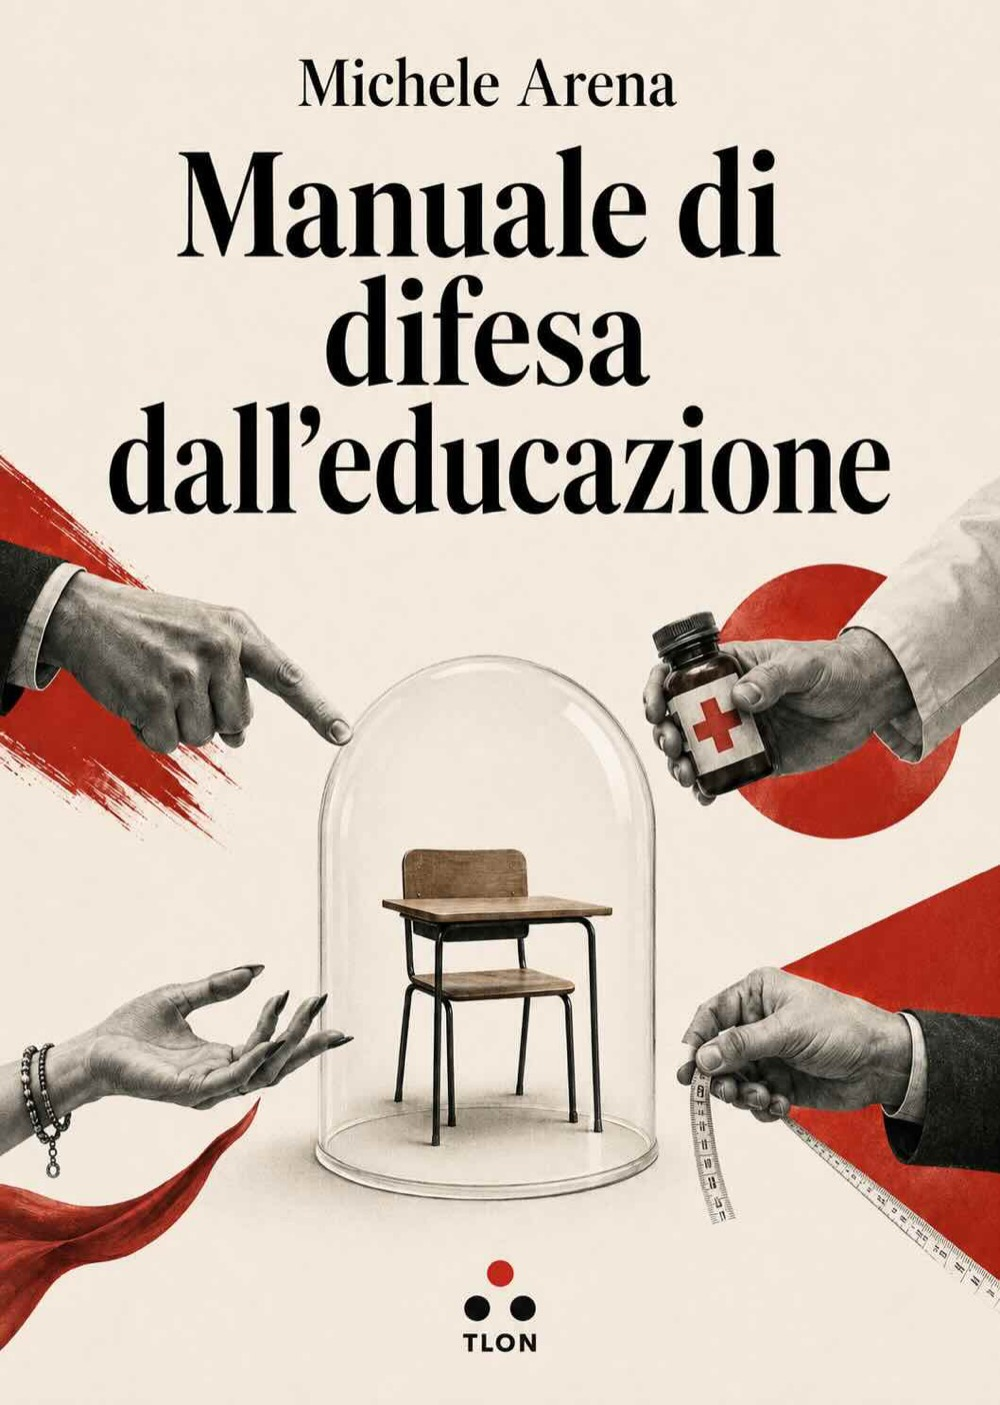
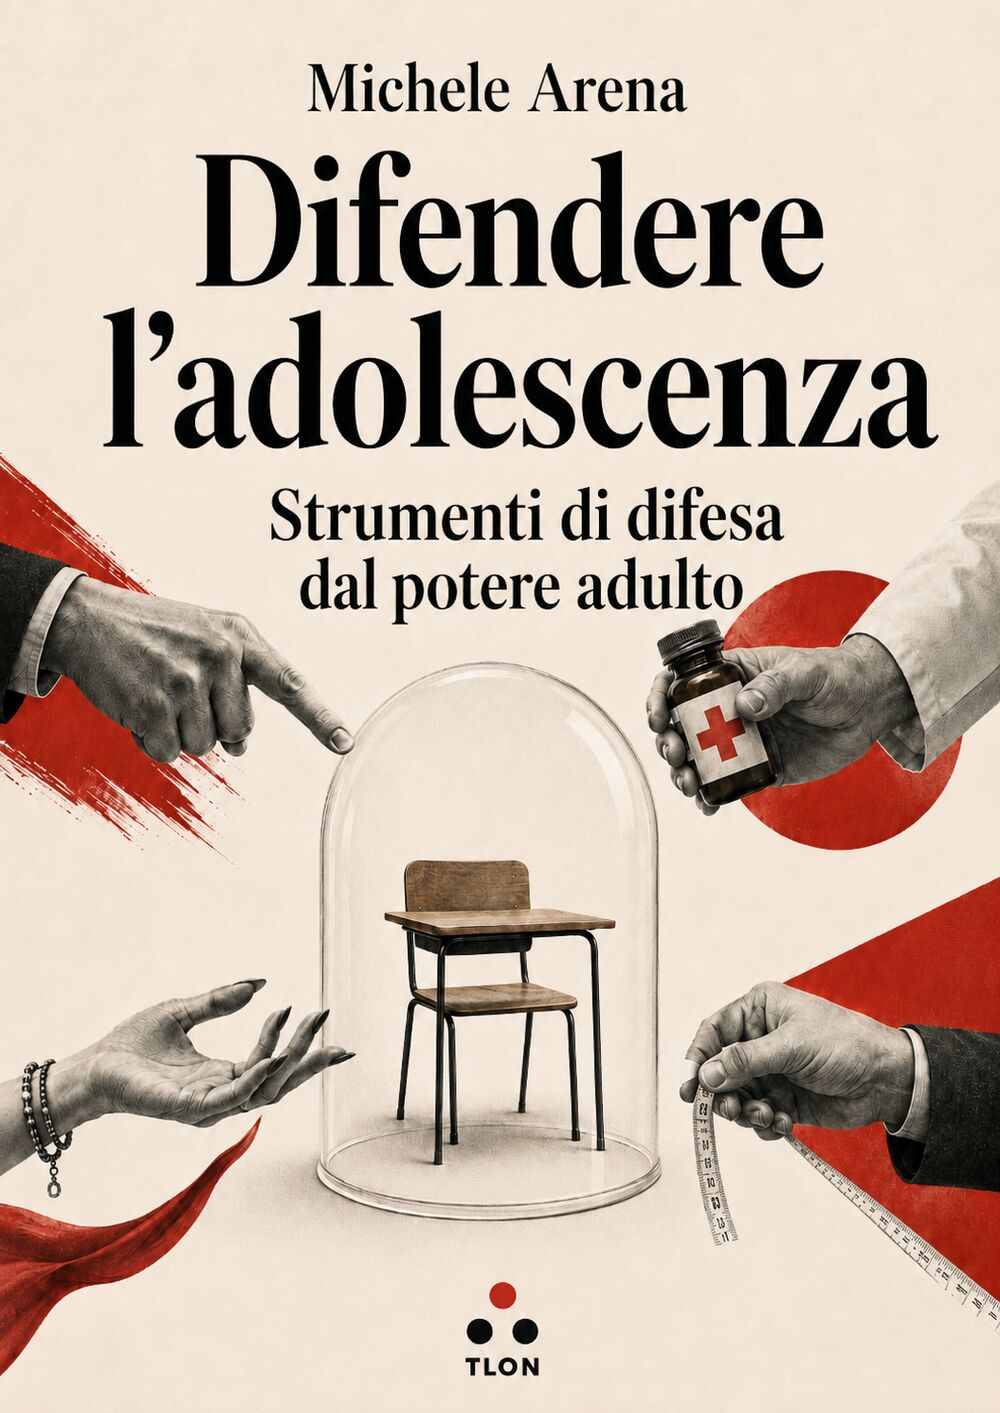
Arena: copertina e titolo definitivi — "Difendere l'adolescenza. Strumenti di difesa dal potere adulto"

diff --git a/terra.html b/terra.html
@@ -317,7 +317,7 @@
       <h3>Vietato educare<i class="ex">!</i></h3>
       <div class="voci"><span>Michele Arena</span><span>Celeste Costantino</span></div>
       <p class="abs">In Italia educare i corpi è ancora di fatto vietato, e dopo il DDL Valditara sul «consenso informato» lo è ancora di più. Educazione, scuola, adolescenza: chi decide cosa un giovane può sapere, sentire, diventare?</p>
-      <div class="books"><b>Manuale di difesa dall'educazione</b> · <b>Senza legge</b></div>
+      <div class="books"><b>Difendere l'adolescenza</b> · <b>Senza legge</b></div>
     </div>
   </article>
 
@@ -523,7 +523,7 @@ const DETAILS={
     {n:"Celeste Costantino",b:"Attivista, autrice e politica (1979), laureata in filosofia. Deputata nella XVII legislatura, oggi vicepresidente della Fondazione Una Nessuna Centomila. Nel 2013 lanciò la prima proposta di legge per l'educazione sentimentale a scuola."}
    ],
    libri:[
-    {t:"Manuale di difesa dall'educazione",m:"Michele Arena · Tlon, 2026",c:"assets/libri/difesa.jpg",d:"Gli adolescenti come una delle categorie più discriminate, schiacciata da un mondo adulto che pretende di proteggerli controllandoli."},
+    {t:"Difendere l'adolescenza. Strumenti di difesa dal potere adulto",m:"Michele Arena · Tlon, 2026",c:"assets/libri/difesa.jpg",d:"Gli adolescenti come una delle categorie più discriminate, schiacciata da un mondo adulto che pretende di proteggerli controllandoli."},
     {t:"Senza legge",m:"Celeste Costantino, Giulia Minoli, Monica Pasquino · Tlon, 2025",c:COV+"2025/08/SENZA-LEGGE_sito.jpg",d:"Anni di battaglie e resistenze istituzionali sull'educazione sessuo-affettiva, dalla scuola al Parlamento; il genere come categoria scientifica contro la retorica costruita dell'«ideologia gender»."}
    ]},
  5:{acc:"#FBBF3C",when:"Giovedì 11 settembre · 18.45—20",title:"La passione non paga l'affitto",
